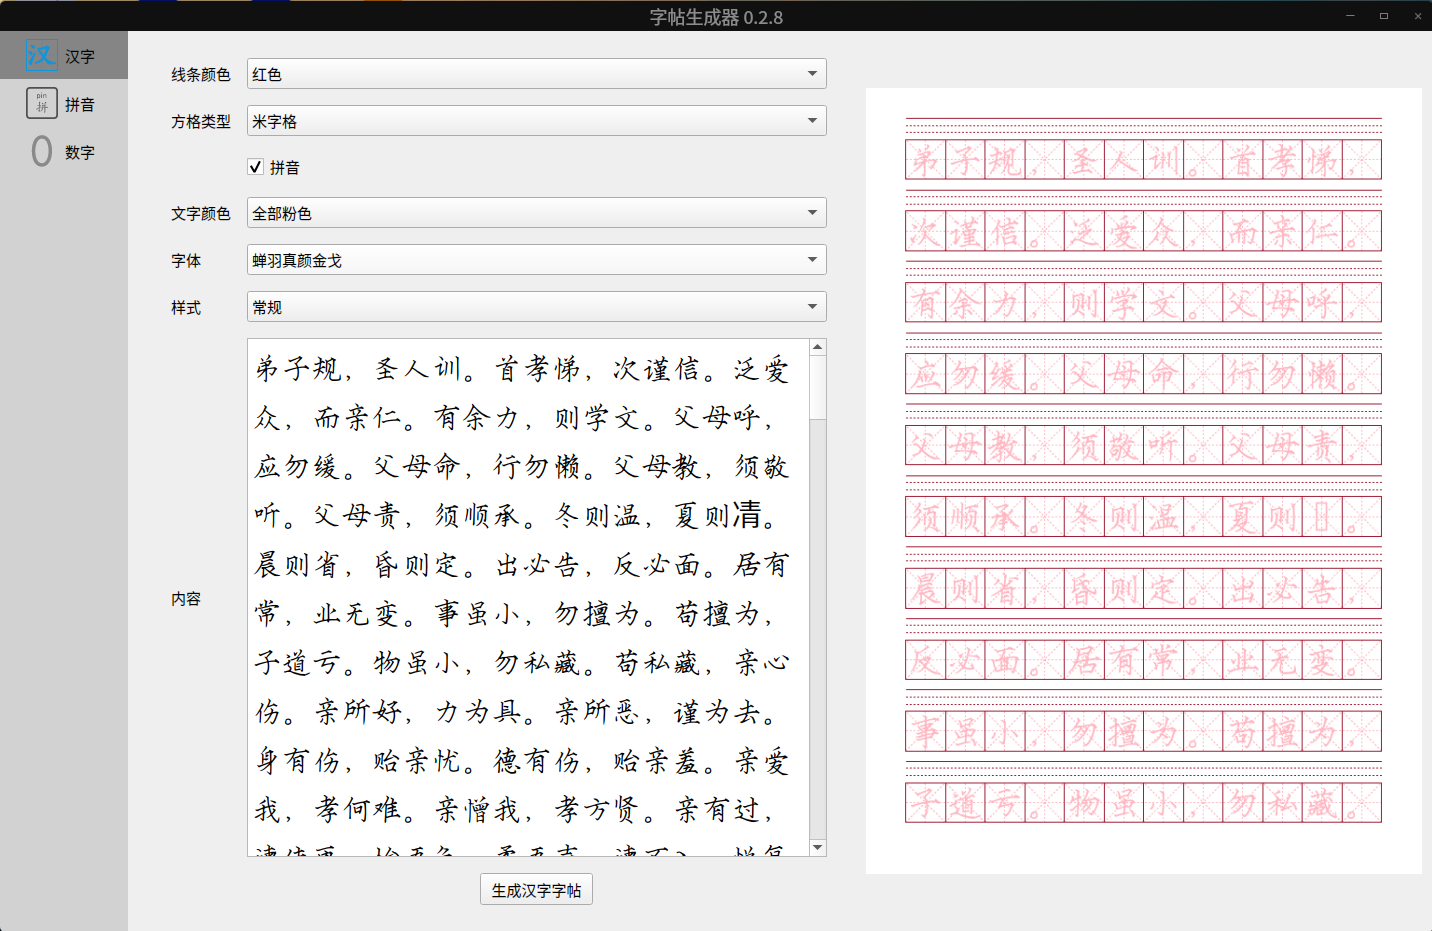
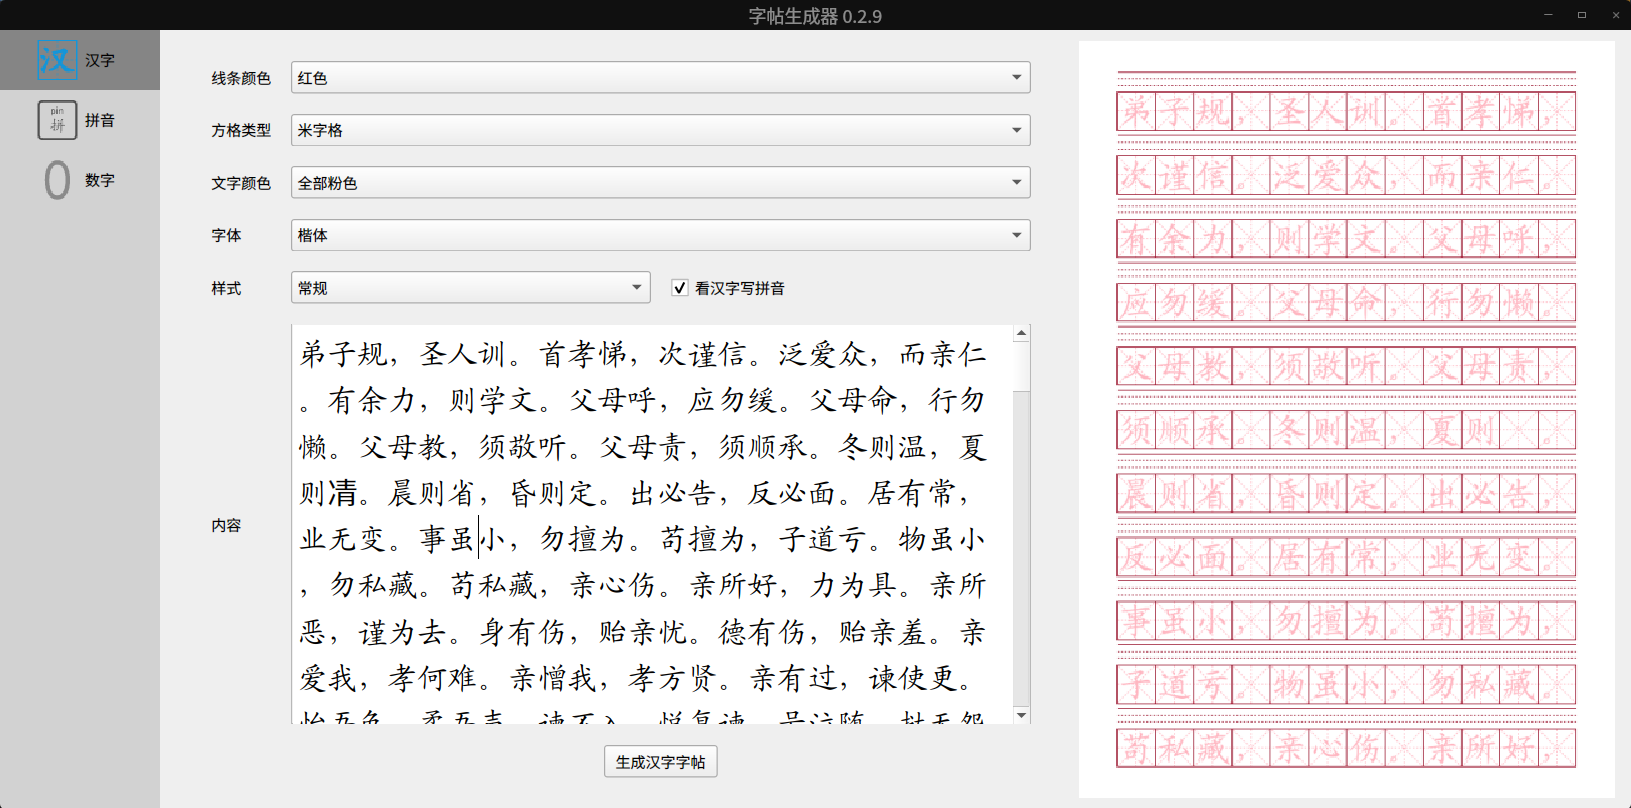
支持看拼音写汉字和看汉字写拼音

Changed region(s): [[0.0, 0.0, 1.0, 1.0]]

diff --git a/backend/PinYin.py b/backend/PinYin.py
@@ -9,7 +9,7 @@ class PinYin:
     page_width = 21
     page_height = 29.7
     start_x = 0.8
-    start_y = 1.5
+    start_y = 1.0
 
     doc_width = page_width - start_x * 2
     doc_height = page_height - start_y * 2
@@ -27,11 +27,27 @@ class PinYin:
     curr_page = -1
     curr_index = -1
 
-    def __init__(self, font_path, page_width=21, page_height=29.7, start_x=0.8, start_y=1.5, col_count=5):
+    def __init__(self, font_path, show_hanzi, page_width=21, page_height=29.7, start_x=0.8, start_y=1.0, col_count=5):
         self.font_name = '汉语拼音'
         self.font_file = os.path.join(font_path, '拼音', '汉语拼音.ttf')
         self.font_size = 28
         self.font_scan = 0.67
+        self.show_hanzi = show_hanzi
+
+        if show_hanzi:
+            self.line_space = 0.5
+            self.line_height = 0.95
+            self.line_hanzi = 2.0
+            self.font_size = 18
+            self.font_scan = 0.67
+            col_count = 8
+        else:
+            self.line_space = 0.6
+            self.line_height = 1.5
+            self.line_hanzi = 0
+            self.font_size = 28
+            self.font_scan = 0.67
+            col_count = 5
 
         self.page_width = page_width
         self.page_height = page_height
@@ -44,11 +60,16 @@ class PinYin:
         self.col_count = col_count
         self.col_width = self.doc_width / self.col_count
 
-        self.line_space = 0.6
-        self.line_height = 1.5
         self.line_color = 'lightgreen'
-        self.line_count = int((self.doc_height + self.line_space) / (self.line_height + self.line_space))
+        self.line_count = int((self.doc_height + self.line_space) /
+                              (self.line_height + self.line_hanzi + self.line_space))
         self.col_text_colors = ['lightgrey']  # 全部浅灰
+
+        self.doc_width = self.col_count * self.col_width
+        self.doc_height = self.line_count * (self.line_height + self.line_hanzi + self.line_space) - self.line_space
+
+        self.start_x = (self.page_width - self.doc_width) / 2
+        self.start_y = (self.page_height - self.doc_height) / 2
 
     def __del__(self):
         self.close()
@@ -89,8 +110,44 @@ class PinYin:
         self.canv.setLineWidth(1)
         for row in range(0, self.line_count):
             x = self.start_x
-            y = self.start_y + row * (self.line_height + self.line_space)
+            y = self.start_y + row * (self.line_height + self.line_space + self.line_hanzi)
             self._draw_4_line(x, y)
+            if self.show_hanzi:
+                self._draw_tian(x, y + self.line_height)
+
+    def _draw_fang(self, _x, _y):
+        # 绘制每列的竖线
+        y = self.page_height - _y - self.line_hanzi
+        self.canv.setDash([])
+        self.canv.setStrokeColor(self.line_color)
+        for col in range(0, self.col_count + 1):
+            x = _x + col * self.col_width
+            self.canv.line(x * cm, y * cm, x * cm, (y + self.line_hanzi) * cm)
+
+        # 绘制每行的外框
+        x = _x
+        y = self.page_height - _y - self.line_hanzi
+        self.canv.setDash([])
+        self.canv.setStrokeColor(self.line_color)
+        self.canv.rect(x * cm, y * cm, self.doc_width * cm, self.line_hanzi * cm)
+
+    def _draw_tian(self, _x, _y):
+        # 绘制每格的中心水平虚线
+        x = _x
+        y = self.page_height - _y - self.line_hanzi / 2
+        self.canv.setDash([2, 2])
+        self.canv.setStrokeColor(self.line_color)
+        self.canv.line(x * cm, y * cm, (self.doc_width + x) * cm, y * cm)
+
+        # 绘制每列中间的竖线
+        y = self.page_height - _y
+        self.canv.setDash([2, 2])
+        self.canv.setStrokeColor(self.line_color)
+        for index in range(0, self.col_count):
+            x = _x + (index + 0.5) * self.col_width
+            self.canv.line(x * cm, (y - self.line_hanzi) * cm, x * cm, y * cm)
+
+        self._draw_fang(_x, _y)
 
     def _end_line(self):
         curr_row = int(self.curr_index / self.col_count) - self.line_count * self.curr_page
@@ -137,7 +194,8 @@ class PinYin:
             self.canv.setFillColor(color)
 
         x = self.start_x + col * self.col_width
-        y = self.start_y + row * (self.line_height + self.line_space) + self.line_height * self.font_scan
+        y = self.start_y + row * (self.line_height + self.line_space + self.line_hanzi)\
+            + self.line_height * self.font_scan
         txt_width = self.canv.stringWidth(txt)
         x += (self.col_width - txt_width / cm) / 2
         y = self.page_height - y  # 转换坐标系，右上角坐标系，转换成左下角

diff --git a/backend/HanZi.py b/backend/HanZi.py
@@ -41,6 +41,7 @@ class HanZi:
         self.item_height = 1.5
         self.line_space = 0.2
         self.side_space = 1
+        self.line_pinyin = 0
 
         self.doc_width = self.page_width - self.side_space * 2
         self.doc_height = self.page_height - self.side_space * 2
@@ -49,13 +50,16 @@ class HanZi:
 
         self.show_pinyin = show_pinyin
         if self.show_pinyin:
-            self.line_space += 1
-            self.row_count = int((self.doc_height + self.line_space) / (self.item_height + self.line_space))
+            self.line_pinyin = 0.8
+            self.row_count = int((self.doc_height + self.line_space) /
+                                 (self.item_height + self.line_pinyin + self.line_space))
         else:
-            self.row_count = int((self.doc_height + self.line_space) / (self.item_height + self.line_space))
+            self.line_pinyin = 0
+            self.row_count = int((self.doc_height + self.line_space) /
+                                 (self.item_height + self.line_pinyin + self.line_space))
 
         self.doc_width = self.col_count * self.item_width
-        self.doc_height = self.row_count * (self.item_height + self.line_space) - self.line_space
+        self.doc_height = self.row_count * (self.item_height + self.line_pinyin + self.line_space) - self.line_space
 
         self.start_x = (self.page_width - self.doc_width) / 2
         self.start_y = (self.page_height - self.doc_height) / 2
@@ -176,9 +180,10 @@ class HanZi:
         self.canv.setLineWidth(1)
         for row in range(0, self.row_count):
             x = self.start_x
-            y = self.start_y + row * (self.item_height + self.line_space)
+            y = self.start_y + row * (self.item_height + self.line_pinyin + self.line_space)
             if self.show_pinyin:
-                self._draw_pinyin(x, y - 0.8, 0.8)
+                self._draw_pinyin(x, y, self.line_pinyin)
+                y += self.line_pinyin
             if self.grid_type == self.GRID_TYPE_MI:
                 self._draw_mi(x, y)
             elif self.grid_type == self.GRID_TYPE_TIAN:
@@ -221,7 +226,8 @@ class HanZi:
             self.canv.setFillColor(color)
 
         x = self.start_x + col * self.item_width
-        y = self.start_y + row * (self.item_height + self.line_space) + self.item_height * self.font_scan
+        y = self.start_y + row * (self.item_height + self.line_pinyin + self.line_space)\
+            + self.line_pinyin + self.item_height * self.font_scan
         txt_width = self.canv.stringWidth(txt)
         x += (self.item_width - txt_width / cm) / 2
         y = self.page_height - y  # 转换坐标系，右上角坐标系，转换成左下角
@@ -256,7 +262,7 @@ class HanZi:
         for t in txt:
             line_text.append(t)
             for i in range(0, self.col_count - 1):
-                if (i + 1) / self.col_count > repeat:
+                if i + 1 >= self.col_count * repeat:
                     line_text.append('')
                 else:
                     line_text.append(t)
@@ -267,7 +273,7 @@ class HanZi:
 if __name__ == '__main__':
     # for name in ['楷体', '华文楷体', '庞中华钢笔字体', '战加东硬笔楷书', '蝉羽真颜金戈', '田英章楷书']:
     for name in ['田英章楷书']:
-        hanzi = HanZi(font_name=name)
+        hanzi = HanZi(fonts=name)
         hanzi.create(name + '.pdf')
         hanzi.draw_mutilate_text('''
 云蒸沧海，雨润桑田。阴阳世界，造化黎元。

diff --git a/ui/PinYin.py b/ui/PinYin.py
@@ -7,7 +7,7 @@ from pdf2image import convert_from_path
 from PyQt5.QtCore import Qt
 from PyQt5.QtGui import QTextOption, QFontDatabase, QFont, QImage, QPixmap
 from PyQt5.QtWidgets import QWidget, QGridLayout, QLabel, QLineEdit, QComboBox, QTextEdit, QPushButton, QHBoxLayout, \
-    QSizePolicy
+    QSizePolicy, QCheckBox
 
 from backend.PinYin import PinYin
 
@@ -17,7 +17,7 @@ class UiPinYin(QWidget):
     def __init__(self, font_path):
         super().__init__()
         self.font_path = font_path
-        self.pinyin = PinYin(font_path=self.font_path)
+        self.pinyin = PinYin(font_path=self.font_path, show_hanzi=False)
         grid = QGridLayout()
         grid.setSpacing(16)
         grid.setContentsMargins(32, 16, 32, 16)
@@ -60,8 +60,16 @@ class UiPinYin(QWidget):
         self.combo_types.addItem('不描字')
         self.combo_types.addItem('半描字')
         self.combo_types.addItem('全描字')
-        grid.addWidget(self.combo_types, row, 1)
         self.combo_types.setCurrentIndex(0)
+
+        self.checkbox_hanzi = QCheckBox("看拼音写字")
+        self.checkbox_hanzi.setChecked(True)
+        self.checkbox_hanzi.clicked.connect(self.do_preview)
+
+        box_type = QHBoxLayout()
+        box_type.addWidget(self.combo_types)
+        box_type.addWidget(self.checkbox_hanzi)
+        grid.addLayout(box_type, row, 1)
 
         row += 1
         label = QLabel("声调")
@@ -142,7 +150,7 @@ class UiPinYin(QWidget):
             self.btn_ok.setEnabled(True)
 
     def do_draw(self, pdf_path):
-        self.pinyin = PinYin(font_path=self.font_path)
+        self.pinyin = PinYin(font_path=self.font_path, show_hanzi=self.checkbox_hanzi.isChecked())
         txt = self.edit_text.toPlainText().split()
         self.pinyin.create(pdf_path)
 

diff --git a/ui/HanZi.py b/ui/HanZi.py
@@ -75,12 +75,6 @@ class UiHanZi(QWidget):
         grid.addWidget(self.combo_grid_type, row, 1)
 
         row += 1
-        self.checkbox_pinyin = QCheckBox("拼音")
-        self.checkbox_pinyin.setChecked(True)
-        grid.addWidget(self.checkbox_pinyin, row, 1)
-        self.checkbox_pinyin.clicked.connect(self.do_preview)
-
-        row += 1
         label = QLabel("文字颜色")
         grid.addWidget(label, row, 0)
         self.combo_colors = QComboBox()
@@ -115,7 +109,15 @@ class UiHanZi(QWidget):
         self.combo_types.addItem('半描字')
         self.combo_types.addItem('全描字')
         self.combo_types.currentIndexChanged.connect(self.do_preview)
-        grid.addWidget(self.combo_types, row, 1)
+
+        self.checkbox_pinyin = QCheckBox("看汉字写拼音")
+        self.checkbox_pinyin.setChecked(True)
+        self.checkbox_pinyin.clicked.connect(self.do_preview)
+
+        layout_types = QHBoxLayout()
+        layout_types.addWidget(self.combo_types)
+        layout_types.addWidget(self.checkbox_pinyin)
+        grid.addLayout(layout_types, row, 1)
 
         row += 1
         label = QLabel("内容")

diff --git a/version.py b/version.py
@@ -1,7 +1,7 @@
 
 
 version = {
-    "curr": "0.2.8",
+    "curr": "0.2.9",
     "history": {
         "0.0.1": "实现基本的拼音字帖和汉字字帖",
         "0.0.2": "1. 支持方格\n"
@@ -12,6 +12,7 @@ version = {
         "0.0.5": "支持实时预览",
         "0.1.6": "升级reportlab，解决某些ttf字体时会出错，导致程序崩溃的问题。",
         "0.2.7": "新增数字字帖。",
-        "0.2.8": "汉字字帖支持添加拼音行。"
+        "0.2.8": "汉字字帖支持添加拼音行。",
+        "0.2.9": "支持看拼音写汉字和看汉字写拼音"
     }
 }

diff --git a/readme.md b/readme.md
@@ -19,6 +19,7 @@ python3 main.py
 按照要求生成拼音字帖。
 
 ![拼音界面](./readme.res/pinyin.png)
+   ![拼音界面](./readme.res/pinyin-hanzi.png)
 
 1. 线条颜色
 
